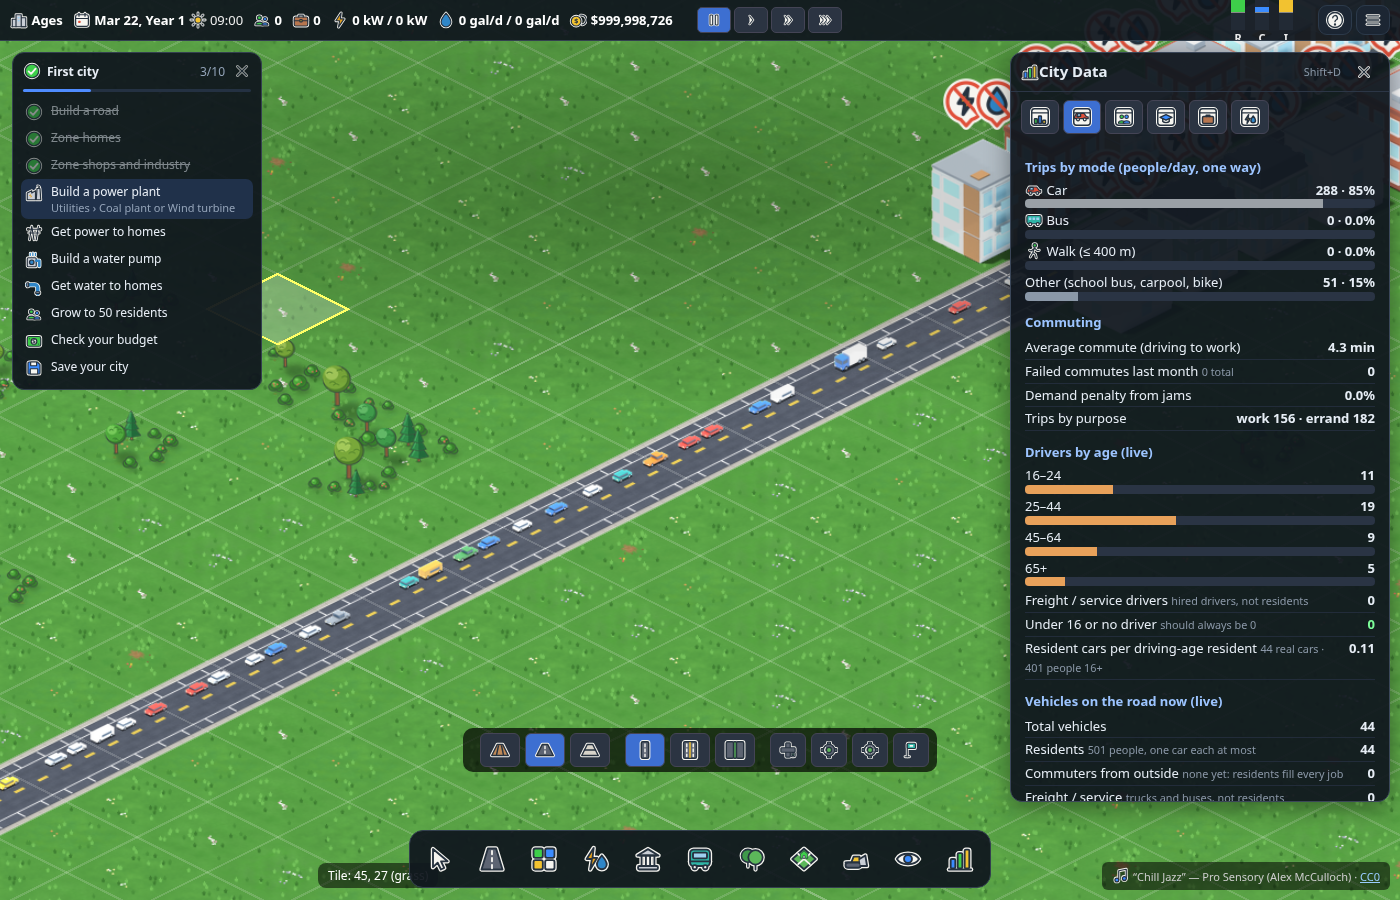
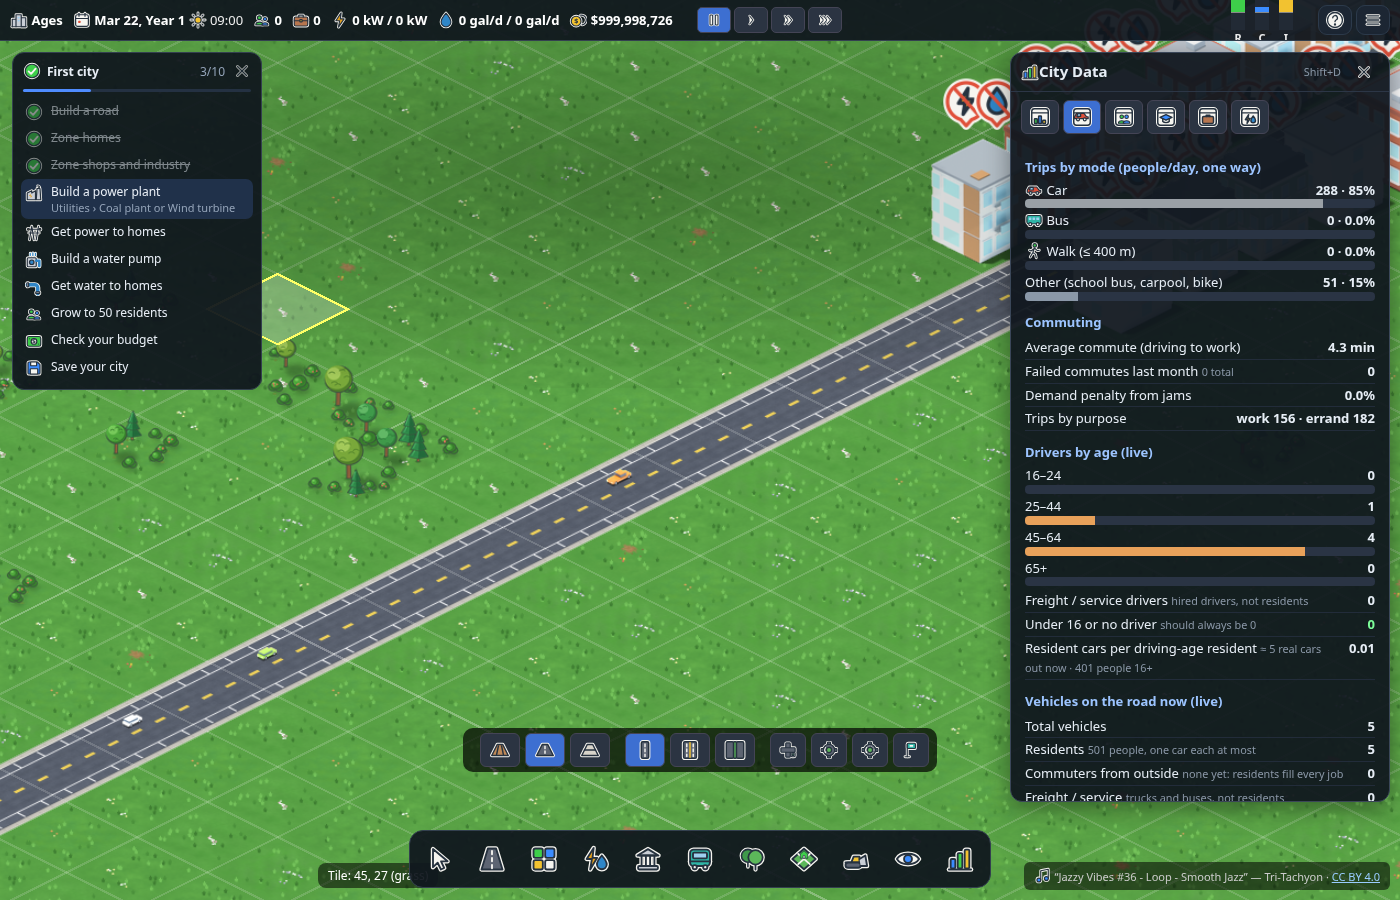
Realistic drive times: each car on screen stands for 5 trips spread over the hour (cross-town ~12 game min), stochastic hourly rounding; tests for realistic peaks

diff --git a/src/main.ts b/src/main.ts
@@ -977,6 +977,10 @@ function diamond(g: Graphics, i: number, j: number) {
   /** one game hour = HOUR_MS of real time at 1× (1 s per 15 game minutes, a 96 s day); 2× and 3× divide it. Traffic runs on the same clock:
    *  TRAFFIC_X traffic-seconds per real second at 1×, times the game speed, so a cross-town drive takes about a game hour at any speed. */
   const HOUR_MS = 4000, TRAFFIC_X = 4;
+  /** realistic drive time: a car you can watch takes ~DRIVE_X times longer (in game time) than the real drive would (a 20 m tile at 45 km/h is 1.6 s; on screen it
+   *  takes ~2.5 game min; full realism would be ~100× and cars would teleport). So each car on screen stands for DRIVE_X trips spread across the hour: the cars out at once match a town whose cross-town drive is ~12 game
+   *  minutes, not ~an hour. Routing congestion (BPR volume) still counts every trip, and the 1-car-per-driver limits divide by the same scale. */
+  const DRIVE_X = 5;
   const setSpeed = (n: number) => {
     sim.speed = n; clearInterval(timer);
     if (n > 0) timer = window.setInterval(tick, HOUR_MS / n);
@@ -1149,7 +1153,7 @@ function diamond(g: Graphics, i: number, j: number) {
   const spawnTrips = () => { const hour = sim.day % 24; MAXCARS = carCap();
     const dk = trips.version ?? 0; if (dk !== dailyKey || !dailyCars) { dailyKey = dk; dailyCars = 0; for (let h = 0; h < 24; h++) dailyCars += trips.departures(h, 0, Math.random).total; }
     // demand-based: each car on screen stands for `scale` real cars, chosen so the daily total fits ~2.5 caps; the hourly count follows the time-of-day curve (rush hours)
-    const dep0 = trips.departures(hour, 0, Math.random), perCar = Math.max(1, dailyCars / (MAXCARS * 2.5)), want = Math.round(dep0.total / perCar);
+    const dep0 = trips.departures(hour, 0, Math.random), perCar = Math.max(DRIVE_X, dailyCars / (MAXCARS * 2.5)), wantF = dep0.total / perCar, want = Math.floor(wantF) + (Math.random() < wantF % 1 ? 1 : 0); // stochastic rounding: small towns still get their few cars
     if (want <= 0) return; const dep = trips.departures(hour, want, Math.random);
     for (const { f, back } of dep.trips) pending.push({ f, back, scale: perCar, h: sim.day });
     if (pending.length > MAXCARS * 2) pending.splice(0, pending.length - MAXCARS * 2);
@@ -1205,7 +1209,7 @@ function diamond(g: Graphics, i: number, j: number) {
     const ages = h('Drivers by age (live)') + DRIVERS.bands.map((b, x) => dbar(b, dv.bands[x], dv.res, '#e8a15a', fmt(dv.bands[x]))).join('')
       + row('Freight / service drivers', fmt(dv.pro), 'hired drivers, not residents')
       + row('Under 16 or no driver', `<span id="liveVehBad" class="${dv.bad ? 'neg' : 'pos'}">${fmt(dv.bad)}</span>`, 'should always be 0')
-      + row('Resident cars per driving-age resident', `<span id="liveVehRatio">${dv.adults ? (dv.res * sc / dv.adults).toFixed(2) : '—'}</span>`, `${fmt(dv.res * sc)} real cars · ${fmt(dv.adults)} people 16+`);
+      + row('Resident cars per driving-age resident', `<span id="liveVehRatio">${dv.adults ? (dv.res * sc / DRIVE_X / dv.adults).toFixed(2) : '—'}</span>`, `≈ ${fmt(dv.res * sc / DRIVE_X)} real cars out now · ${fmt(dv.adults)} people 16+`);
     return ages + h('Vehicles on the road now (live)') + row('Total vehicles', `<span id="liveVehN">${fmt(n)}</span>`)
       + `<div id="liveVehWho">` + row('Residents', `<span id="liveVehRes">${fmt(resN)}</span>`, `${fmt(trips.stats.residents)} people, one car each at most`) + row('Commuters from outside', `<span id="liveVehOut">0</span>`, 'none yet: residents fill every job')
       + row('Freight / service', `<span id="liveVehFr">${fmt(frN)}</span>`, 'trucks and buses, not residents') + (sc > 1 ? row('Each car shown stands for', fmt(sc) + ' real cars') : '') + `</div>` + row('Stuck or queued (not moving > 1.5 s)', fmt(stuck), n ? pc(stuck / n) : '')
